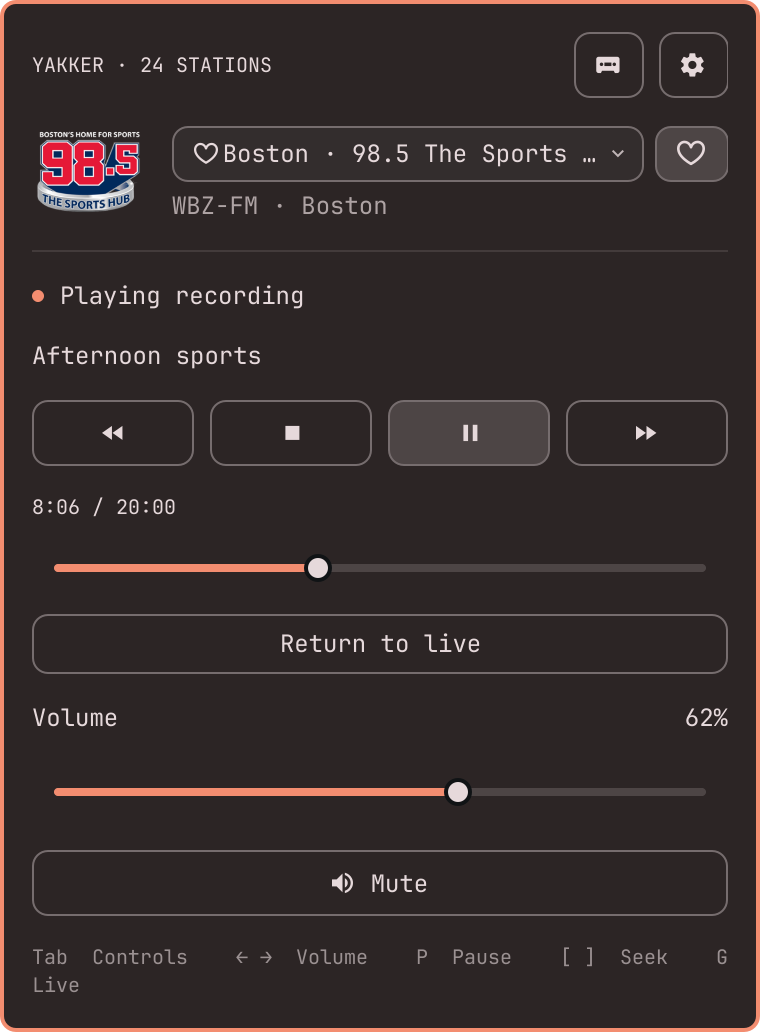
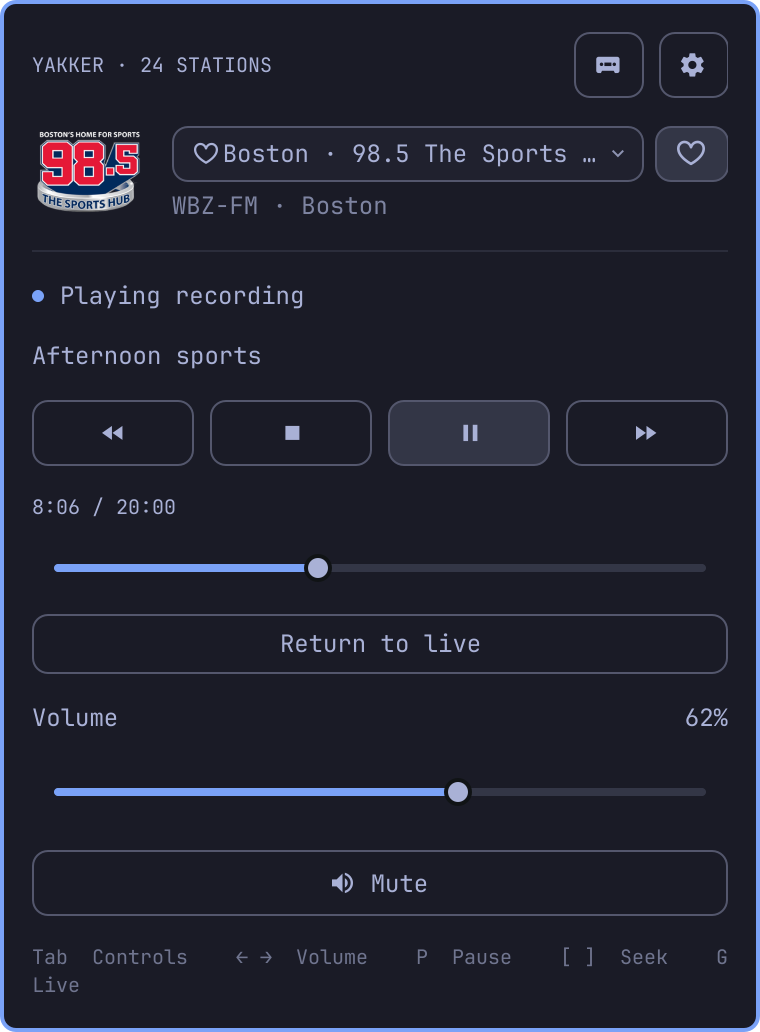
Show README screenshots across eight Omarchy themes

diff --git a/tools/readme/gallery.qml b/tools/readme/gallery.qml
@@ -17,6 +17,7 @@ ShellRoot {
     TestCase {
       id: gallery
       when: false
+      property var themes: ({})
       readonly property var radio: panel.radio
       readonly property var schedule: ({id: "afternoon", label: "Afternoon sports", stationId: "wbz-fm", stationName: "98.5 The Sports Hub", weekdays: [1,2,3,4,5], startTime: "14:00", endTime: "14:20", timezone: "America/New_York", enabled: true, nextStart: "2026-11-23T14:00:00-05:00", nextEnd: "2026-11-23T14:20:00-05:00"})
       function snapshot(schedules, recordings, active) {
@@ -24,7 +25,23 @@ ShellRoot {
           settings: {folder: "/home/demo/Music/Yakker", storageCapBytes: 5368709120, freeSpaceReserveBytes: 1073741824, concurrency: 3},
           usedBytes: recordings.reduce(function(total, item) { return total + item.bytes }, 0), schedules: schedules, recordings: recordings, activeCount: active || 0}
       }
+      function readFile(path) {
+        const request = new XMLHttpRequest()
+        request.open("GET", Qt.resolvedUrl(path), false)
+        request.send()
+        verify(request.status === 0 || request.status === 200, "Could not read " + path)
+        verify(request.responseText.length > 0, "Empty file: " + path)
+        return request.responseText
+      }
       function capture(name) {
+        const theme = themes[name]
+        verify(!!theme, "No theme assigned to " + name)
+        // Use stock theme surfaces rather than machine-specific shell overrides.
+        // These functions update only this isolated process's native singletons.
+        Commons.Color.loadUserShell("")
+        Commons.Color.loadColors(readFile("themes/" + theme + "/colors.toml"))
+        Commons.Color.loadShell(readFile("themes/" + theme + "/shell.toml"))
+        Commons.Style.fontFamily = "JetBrainsMono Nerd Font"
         panel.screenshotScroller.contentY = 0
         wait(150)
         window.height = panel.screenshotPanel.contentHeight
@@ -43,10 +60,10 @@ ShellRoot {
           // shared controller. Dates and show labels are illustrative.
           Commons.Style.cornerRadius = 8
           Commons.Style.fontFamily = "JetBrainsMono Nerd Font"
-          const request = new XMLHttpRequest()
-          request.open("GET", Qt.resolvedUrl("plugin/stations.json"), false)
-          request.send()
-          radio.stations = JSON.parse(request.responseText)
+          themes = JSON.parse(readFile("themes.json"))
+          compare(Object.keys(themes).length, 8)
+          compare(new Set(Object.values(themes)).size, 8)
+          radio.stations = JSON.parse(readFile("plugin/stations.json"))
           radio.station = radio.stations[0]
           radio.stationId = radio.station.id
           radio.favoriteIds = ["wbz-fm", "wfan", "tsn-690"]

diff --git a/README.md b/README.md
@@ -27,14 +27,15 @@ The bundled station logos belong to their respective owners; see [artwork attrib
 | Live radio | Pause and rewind | Recording library |
 | :---: | :---: | :---: |
 | [<img src="docs/yakker-popup.png" alt="Live player with favorite station, cassette and settings icons, and a compact rewind, Stop, Play/Pause, forward row" width="240">](docs/yakker-popup.png) | [<img src="docs/yakker-dvr.png" alt="Paused radio with 15 minutes of history, a seek timeline, and Go live" width="240">](docs/yakker-dvr.png) | [<img src="docs/yakker-recordings.png" alt="Recording library with a weekday schedule, an active capture, and a saved show ready to play" width="240">](docs/yakker-recordings.png) |
-| Compact playback controls | Catch up at your pace | Record while you listen |
+| **Solitude** | **Nord** | **Jade Horse** |
 
 | Favorites and search | Weekly schedules | Settings and custom stations |
 | :---: | :---: | :---: |
 | [<img src="docs/yakker-stations.png" alt="Searchable station list with favorites sorted first" width="240">](docs/yakker-stations.png) | [<img src="docs/yakker-schedule.png" alt="Schedule editor with weekdays, start and end times, timezone, and next-occurrence preview control" width="240">](docs/yakker-schedule.png) | [<img src="docs/yakker-settings.png" alt="Settings with listening buffer, recording storage, and custom station controls" width="240">](docs/yakker-settings.png) |
-| Find a station by name, city, or country | Set the days, time, and timezone | Make Yakker your own |
+| **Lupine** | **Catppuccin Latte** | **Ristretto** |
 
-_Select any screenshot to enlarge it. Screens show the current native UI with
+_Select any screenshot to enlarge it; Omarchy themes are labeled below each image.
+Screens show the current native UI with
 illustrative playback and recording data; see [how to refresh them](docs/screenshots.md)._
 
 ## Stations
@@ -231,6 +232,7 @@ ones you want.
 | Saved-show playback | Recording storage |
 | :---: | :---: |
 | [<img src="docs/yakker-recording-player.png" alt="Saved recording playing with the compact transport row, duration-based timeline, and Return to live" width="300">](docs/yakker-recording-player.png) | [<img src="docs/yakker-storage.png" alt="Recording storage settings with an editable folder, library cap, free-space reserve, and concurrency limit" width="300">](docs/yakker-storage.png) |
+| **Tokyo Night** | **Flexoki Light** |
 
 Up to **three recordings** can run at once, including while you listen to another
 station. Closing the popup, stopping foreground audio, changing stations, or

diff --git a/docs/screenshots.md b/docs/screenshots.md
@@ -12,10 +12,28 @@ Pass another destination to review captures before replacing the README assets:
 bash tools/capture-readme.sh /tmp/yakker-readme-preview
 ```
 
-The renderer needs Quickshell, Qt Quick / QtTest, the installed Omarchy `qs.Ui`
-and `qs.Commons` modules, and JetBrainsMono Nerd Font. It uses the current theme
-and a two-times display scale for sharp images. Review every image after a
-capture, especially dropdown placement, text wrapping, and long editor screens.
+The renderer needs jq, Quickshell, Qt Quick / QtTest, the installed Omarchy `qs.Ui`
+and `qs.Commons` modules, and JetBrainsMono Nerd Font. It reads the theme mapping
+from `tools/readme/themes.json` and uses each packaged theme’s `colors.toml`, the
+official stock shell template, and any packaged shell overrides in temporary
+staging. The palette and style are applied in an isolated native QML process;
+font, scale, and layout stay consistent across captures. It does not switch the
+desktop theme or modify desktop configuration. Images use a two-times display
+scale for sharpness. Review every image after a capture, especially dropdown
+placement, text wrapping, and long editor screens.
+
+Each of the eight screenshots uses a different Omarchy theme:
+
+| Screenshot | Theme |
+| --- | --- |
+| `yakker-popup.png` | Solitude |
+| `yakker-dvr.png` | Nord |
+| `yakker-recordings.png` | Jade Horse |
+| `yakker-stations.png` | Lupine |
+| `yakker-schedule.png` | Catppuccin Latte |
+| `yakker-settings.png` | Ristretto |
+| `yakker-recording-player.png` | Tokyo Night |
+| `yakker-storage.png` | Flexoki Light |
 
 The images render the checkout's actual `Panel.qml`, `RecordingsView.qml`, and
 shared native controls. A headless wrapper reproduces the popup card's border,
